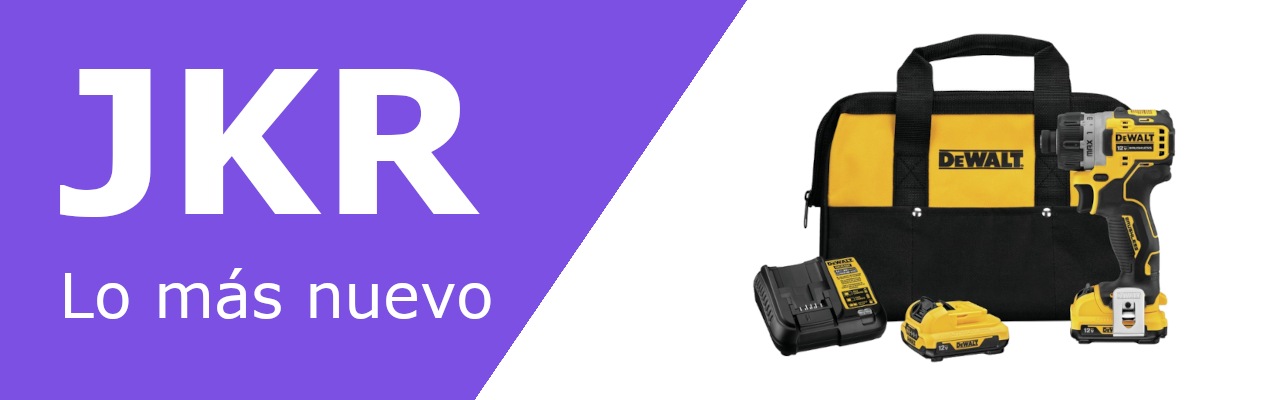
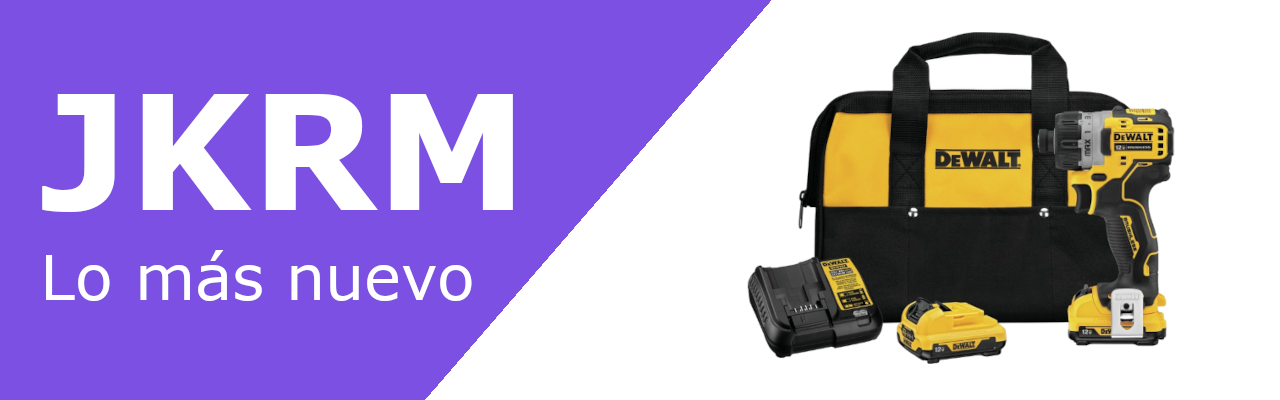
add: about and carousel fix

diff --git a/src/pages/about.js b/src/pages/about.js
@@ -1,11 +1,44 @@
+import LandingLayout from '@/components/layouts/LandingLayout'
 
 const about = () => {
   return (
-
-    <div className='bg-red-500'>
-      <div className='text-white'>About</div>
-    </div>
-
+    <LandingLayout>
+      <div>
+        <div className='bg-[#000000] flex justify-center items-center relative overflow-hidden'>
+          <div className='w-[100%] h-[100%] z-[20] absolute justify-center items-center flex'>
+            <div className='text-[60px] lg:text-[120px] bold text-center z-[40] text-[#ffffff]'>JKRM</div>
+            <hr />
+          </div>
+          <img className='opacity-20 w-[100%]' alt='hero' src='/hero_toolsjpg.jpg' />
+        </div>
+        <div className='bg-[#ffffff] pt-[40px]'>
+          <div className='mx-[6%]'>
+            <h2 className='text-[20px] md:text-[40px] text-[#4a4a4a] font-bold mb-[20px] text-center'>NOSOTROS</h2>
+            <hr className='mt-[10px] mb-[10px]' />
+            <div className='px-[2%] grow flex flex-wrap gap-[20px]'>
+              <div className='basis-[100%] grow'>
+                <h2 className='text-[#5c5a5a] text-[20px] mb-[20px] font-bold'>Qui&eacute;nes somos</h2>
+                <p className='text-[#7a7979]'>
+                  JKRM es una empresa del sector de herramientas con una amplia experiencia en el suministro de soluciones de alta calidad. Nos enorgullece ofrecer una amplia gama de herramientas innovadoras y duraderas que satisfacen las necesidades de profesionales y aficionados por igual.
+                </p>
+              </div>
+              <div className='basis-[100%] md:basis-[40%] grow'>
+                <h2 className='text-[#5c5a5a] text-[20px] mb-[20px] font-bold'>Misi&oacute;n</h2>
+                <p className='text-[#7a7979]'>
+                  En JKRM, nuestra misi&oacute;n es proporcionar a nuestros clientes las herramientas necesarias para alcanzar sus objetivos y superar los desaf&iacute;os que enfrentan en su trabajo diario. Nos comprometemos a ofrecer productos de calidad excepcional, dise&ntilde;ados con innovaci&oacute;n y durabilidad en mente.
+                </p>
+              </div>
+              <div className='basis-[100%] md:basis-[40%] grow pb-[20px]'>
+                <h2 className='text-[#5c5a5a] text-[20px] mb-[20px] font-bold'>Visi&oacute;n</h2>
+                <p className='text-[#7a7979]'>
+                  Nuestra visi&oacute;n en JKRM es convertirnos en el l&iacute;der mundial en el suministro de herramientas innovadoras y de alta calidad que impulsen la eficiencia y el &eacute;xito de nuestros clientes. Nos esforzamos por ser reconocidos como el referente en la industria, brindando soluciones confiables y superando constantemente las expectativas de nuestros clientes.
+                </p>
+              </div>
+            </div>
+          </div>
+        </div>
+      </div>
+    </LandingLayout>
   )
 }
 

diff --git a/src/pages/index.js b/src/pages/index.js
@@ -23,33 +23,33 @@ export default function Home ({ IsLogin, User }) {
   )
 }
 
-export async function getServerSideProps (context) {
-  const { token } = context.req.cookies
-  let IsLogin = false
-  let User = null
-  if (token) {
-    const { payload } = await jwtVerify(
-      token,
-      new TextEncoder().encode('jkrm')
-    )
-    if (payload) {
-      IsLogin = true
-      const { id, nombre, apellido, email, direccion, rol } = payload
-      User = { id, nombre, apellido, email, direccion }
-      if (rol === 1) {
-        context.res.writeHead(302, {
-          Location: '/admin/dashboard' // URL de la página a la que se redireccionará
-        })
-        context.res.end()
-      }
-    }
-  }
+// export async function getServerSideProps (context) {
+//   const { token } = context.req.cookies
+//   let IsLogin = false
+//   let User = null
+//   if (token) {
+//     const { payload } = await jwtVerify(
+//       token,
+//       new TextEncoder().encode('jkrm')
+//     )
+//     if (payload) {
+//       IsLogin = true
+//       const { id, nombre, apellido, email, direccion, rol } = payload
+//       User = { id, nombre, apellido, email, direccion }
+//       if (rol === 1) {
+//         context.res.writeHead(302, {
+//           Location: '/admin/dashboard' // URL de la página a la que se redireccionará
+//         })
+//         context.res.end()
+//       }
+//     }
+//   }
 
-  // console.log(IsLogin)
-  return {
-    props: {
-      IsLogin,
-      User
-    }
-  }
-}
+//   // console.log(IsLogin)
+//   return {
+//     props: {
+//       IsLogin,
+//       User
+//     }
+//   }
+// }

diff --git a/src/components/NavTabs.js b/src/components/NavTabs.js
@@ -13,7 +13,7 @@ const navigation = {
     },
     {
       name: 'Sobre nosotros',
-      href: '/'
+      href: '/about'
     },
     {
       name: 'Contactanos',
